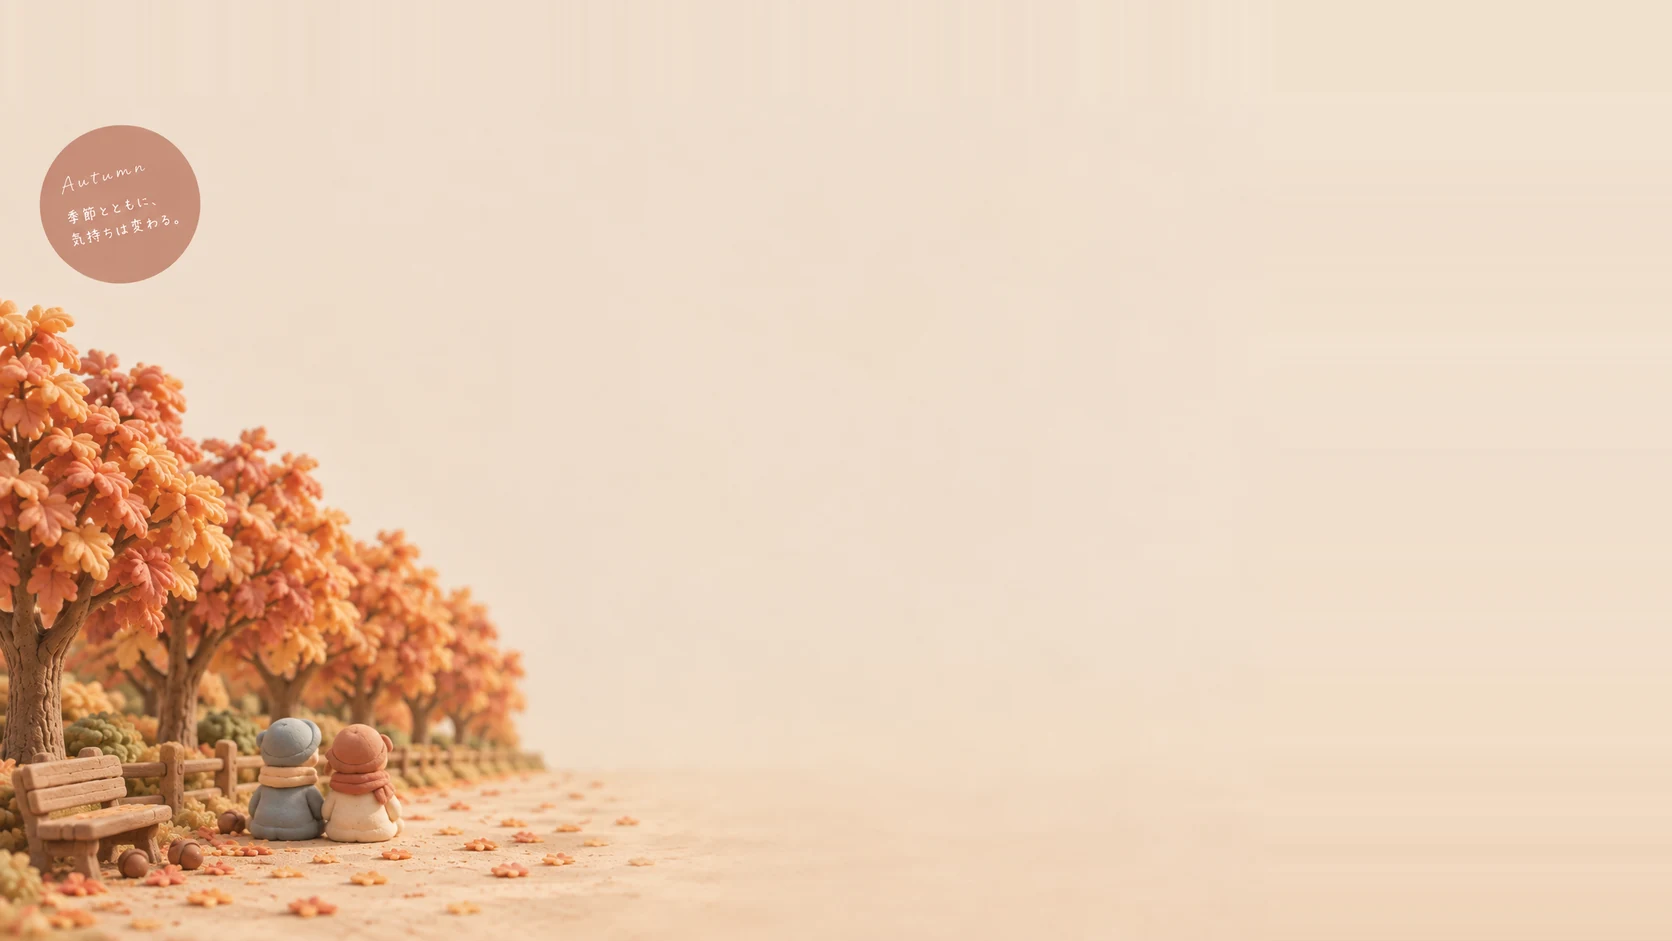
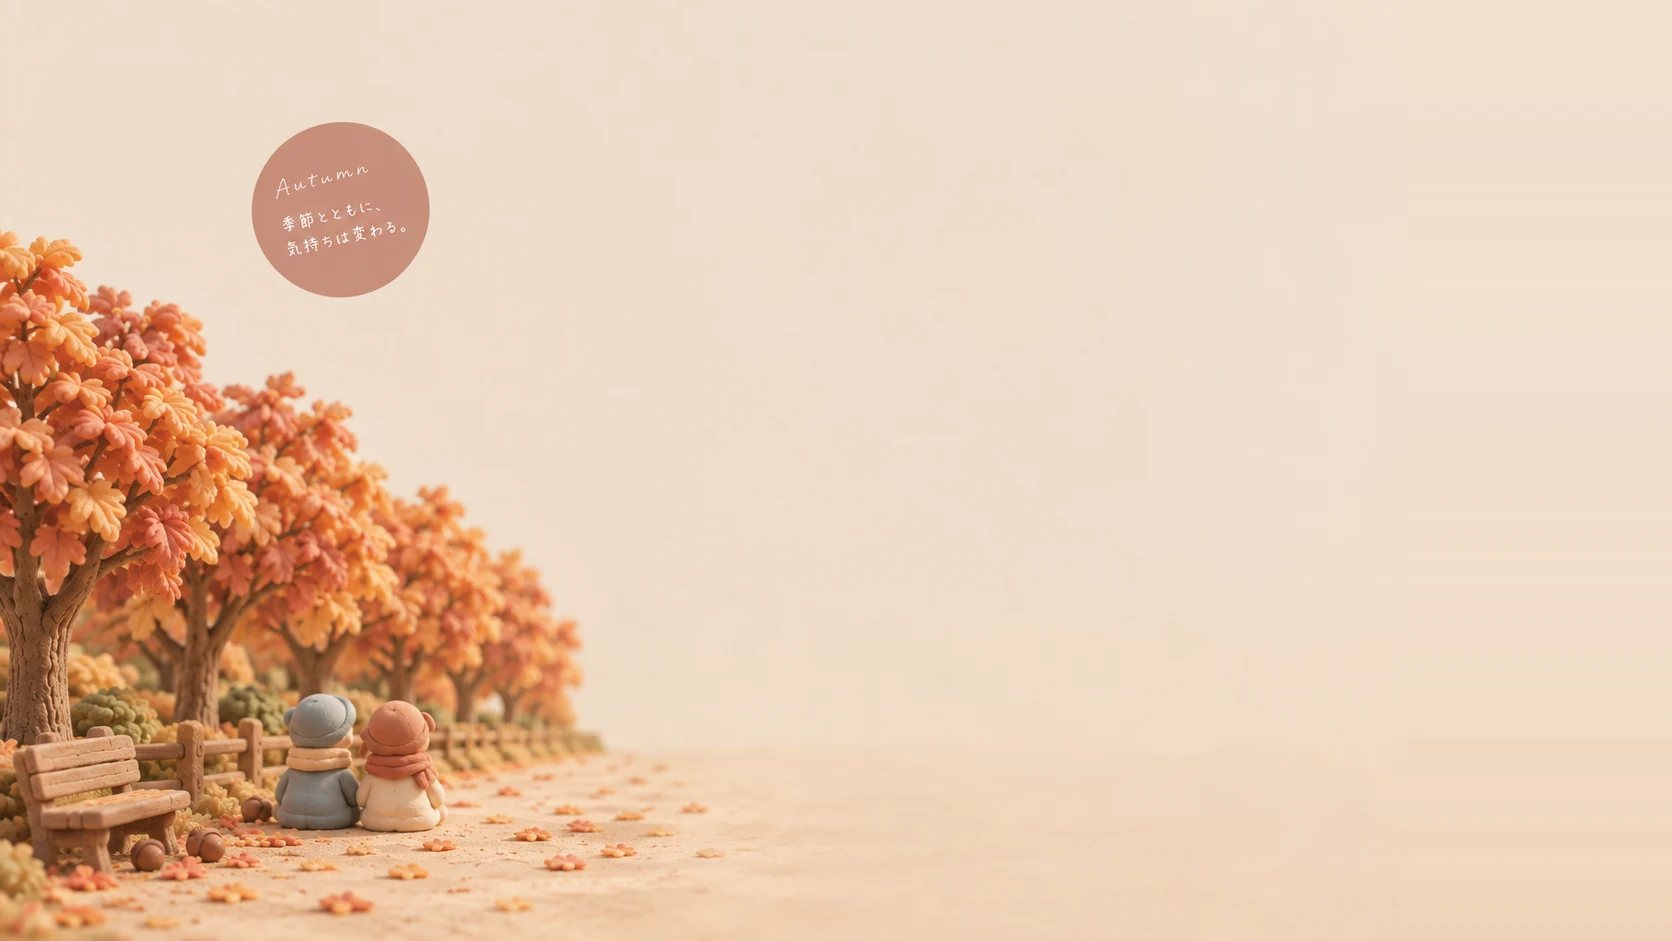
PC ヒーローの横切れを直し、シールを中央寄りにする
公開後のスクリーンショットで、PC のシールが左で切れて「Autumn」が「utumn」に
なっていた。前回、上下の安全域だけ確認して横を見落としていた。

PC の枠は 幅/(0.86×画面高)。これが画像の比率 1.778 を下回ると左右が切られる
（上回るときだけ上下が切られる）。枠 1.50 では左右 7.8% ずつ切られ、
x 0%..11.9% にあったシールの左半分が消えていた。前回右に 480px 足したことで、
シールの左端が 3.1% → 2.3% とさらに端に寄っていたのも効いていた。

- シールを消して貼り直した。背後が平坦なベージュ空（標準偏差 0.8）で円内の紅葉が
  19 画素しかないことを先に確認。元位置は同じ行の平坦な帯の中央値で埋めた
  （空に縦の階調があるので単色で塗らない）。跡の標準偏差 0.32〜0.74 は素の空より平坦
- 上パディングをやめた。上を足すほど右も増える（H×16/9 − W）ため 480px → 284px に減り、
  絵の占有率が 76.2% → 84.4% に上がって木もふたりも中央寄りになった
- 縦の安全域はパディングではなくシールの移動で確保（上端 13.0%）
- 最終 シール x 15.0%..25.7% / y 13.0%..31.9%。枠 2.07 / 1.86 / 1.55 / 1.50 の4つで
  レンダリングして、どれでも切れないことを確認

Claude-Session: https://claude.ai/code/session_018VsHa5bArq2bSujHtT6sNH

Changed region(s): [[0.0, 0.1233, 0.4354, 1.0]]

diff --git a/src/lib/season.ts b/src/lib/season.ts
@@ -11,6 +11,10 @@
  * 存在しないパスを指すと、ヒーロー本体と preload の両方が 404 になる。
  *
  * 画像の生成プロンプト・サイズ規格は docs/sns/seasonal-visuals.md を正とする。
+ *
+ * 画像を差し替えるときは、同ファイルの §4-2「表示枠で切られる量」を必ず読むこと。
+ * ヒーローは object-fit: cover なので、枠の比率によって上下か左右のどちらかが切られる。
+ * シールの上端は 12% より下、左端は 15% より右に置く（両方とも本番で切って実際に踏んだ）。
  */
 
 export type SeasonKey = "summer" | "autumn" | "halloween";
